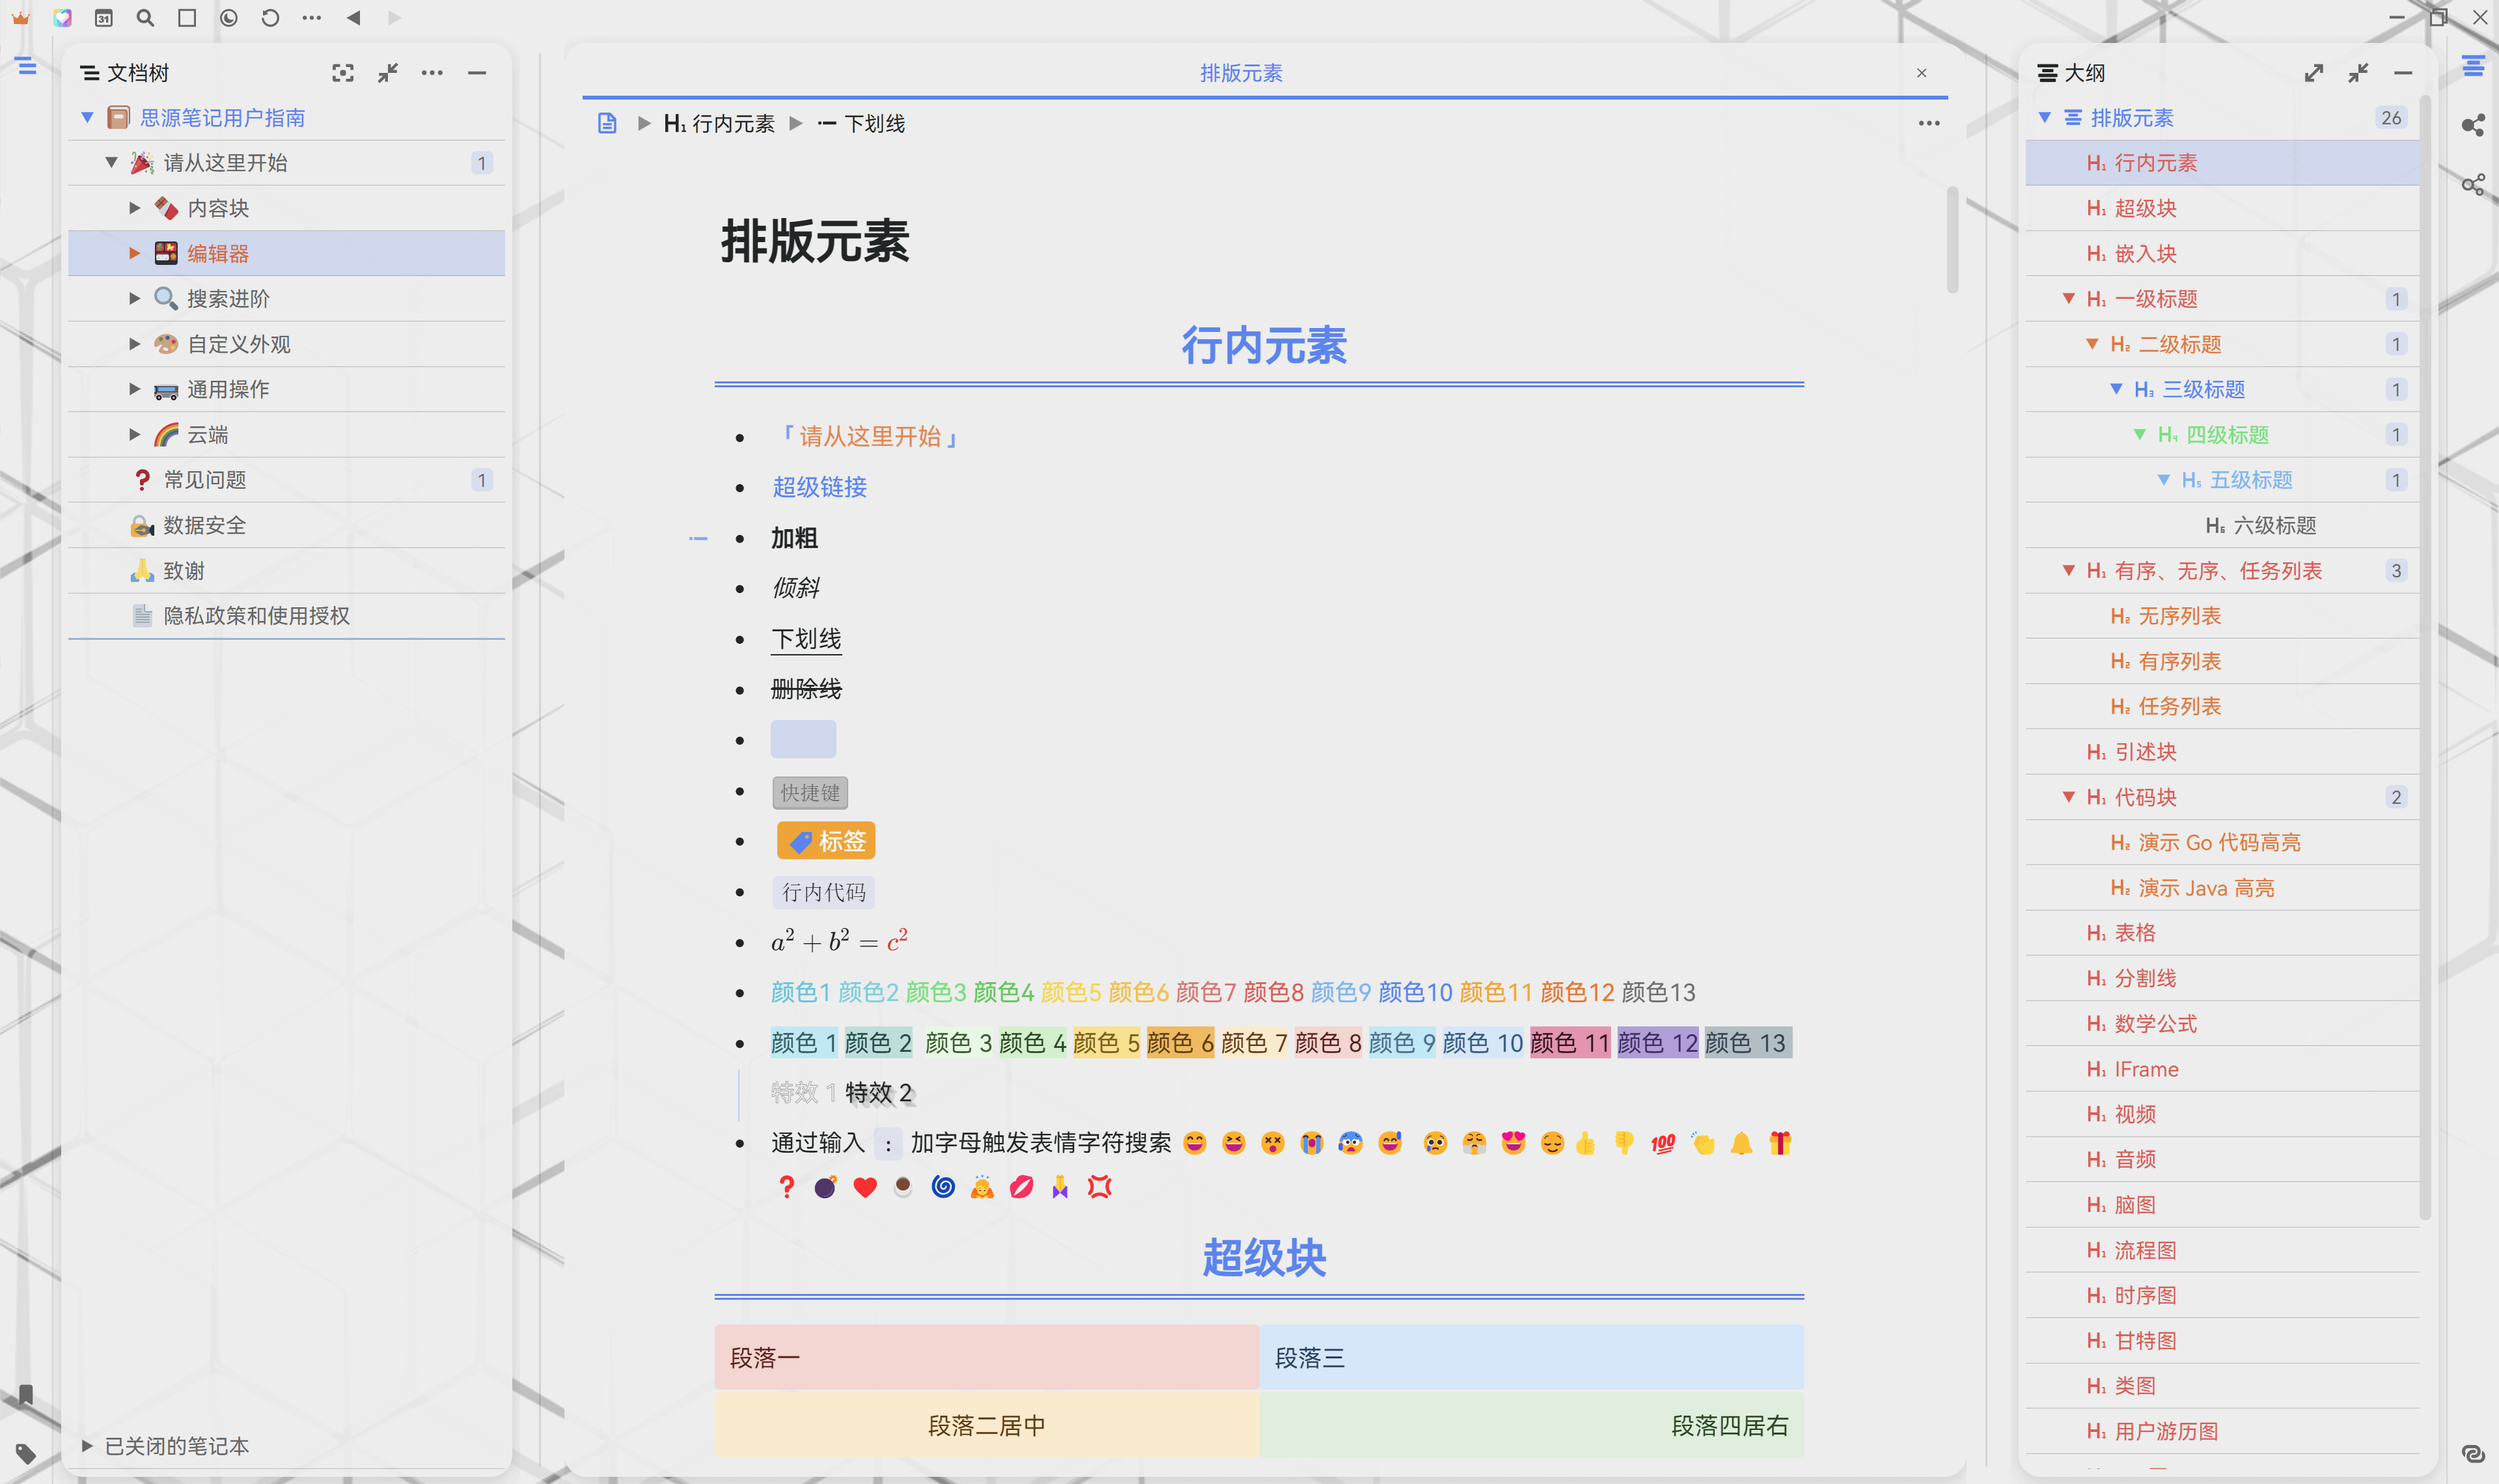
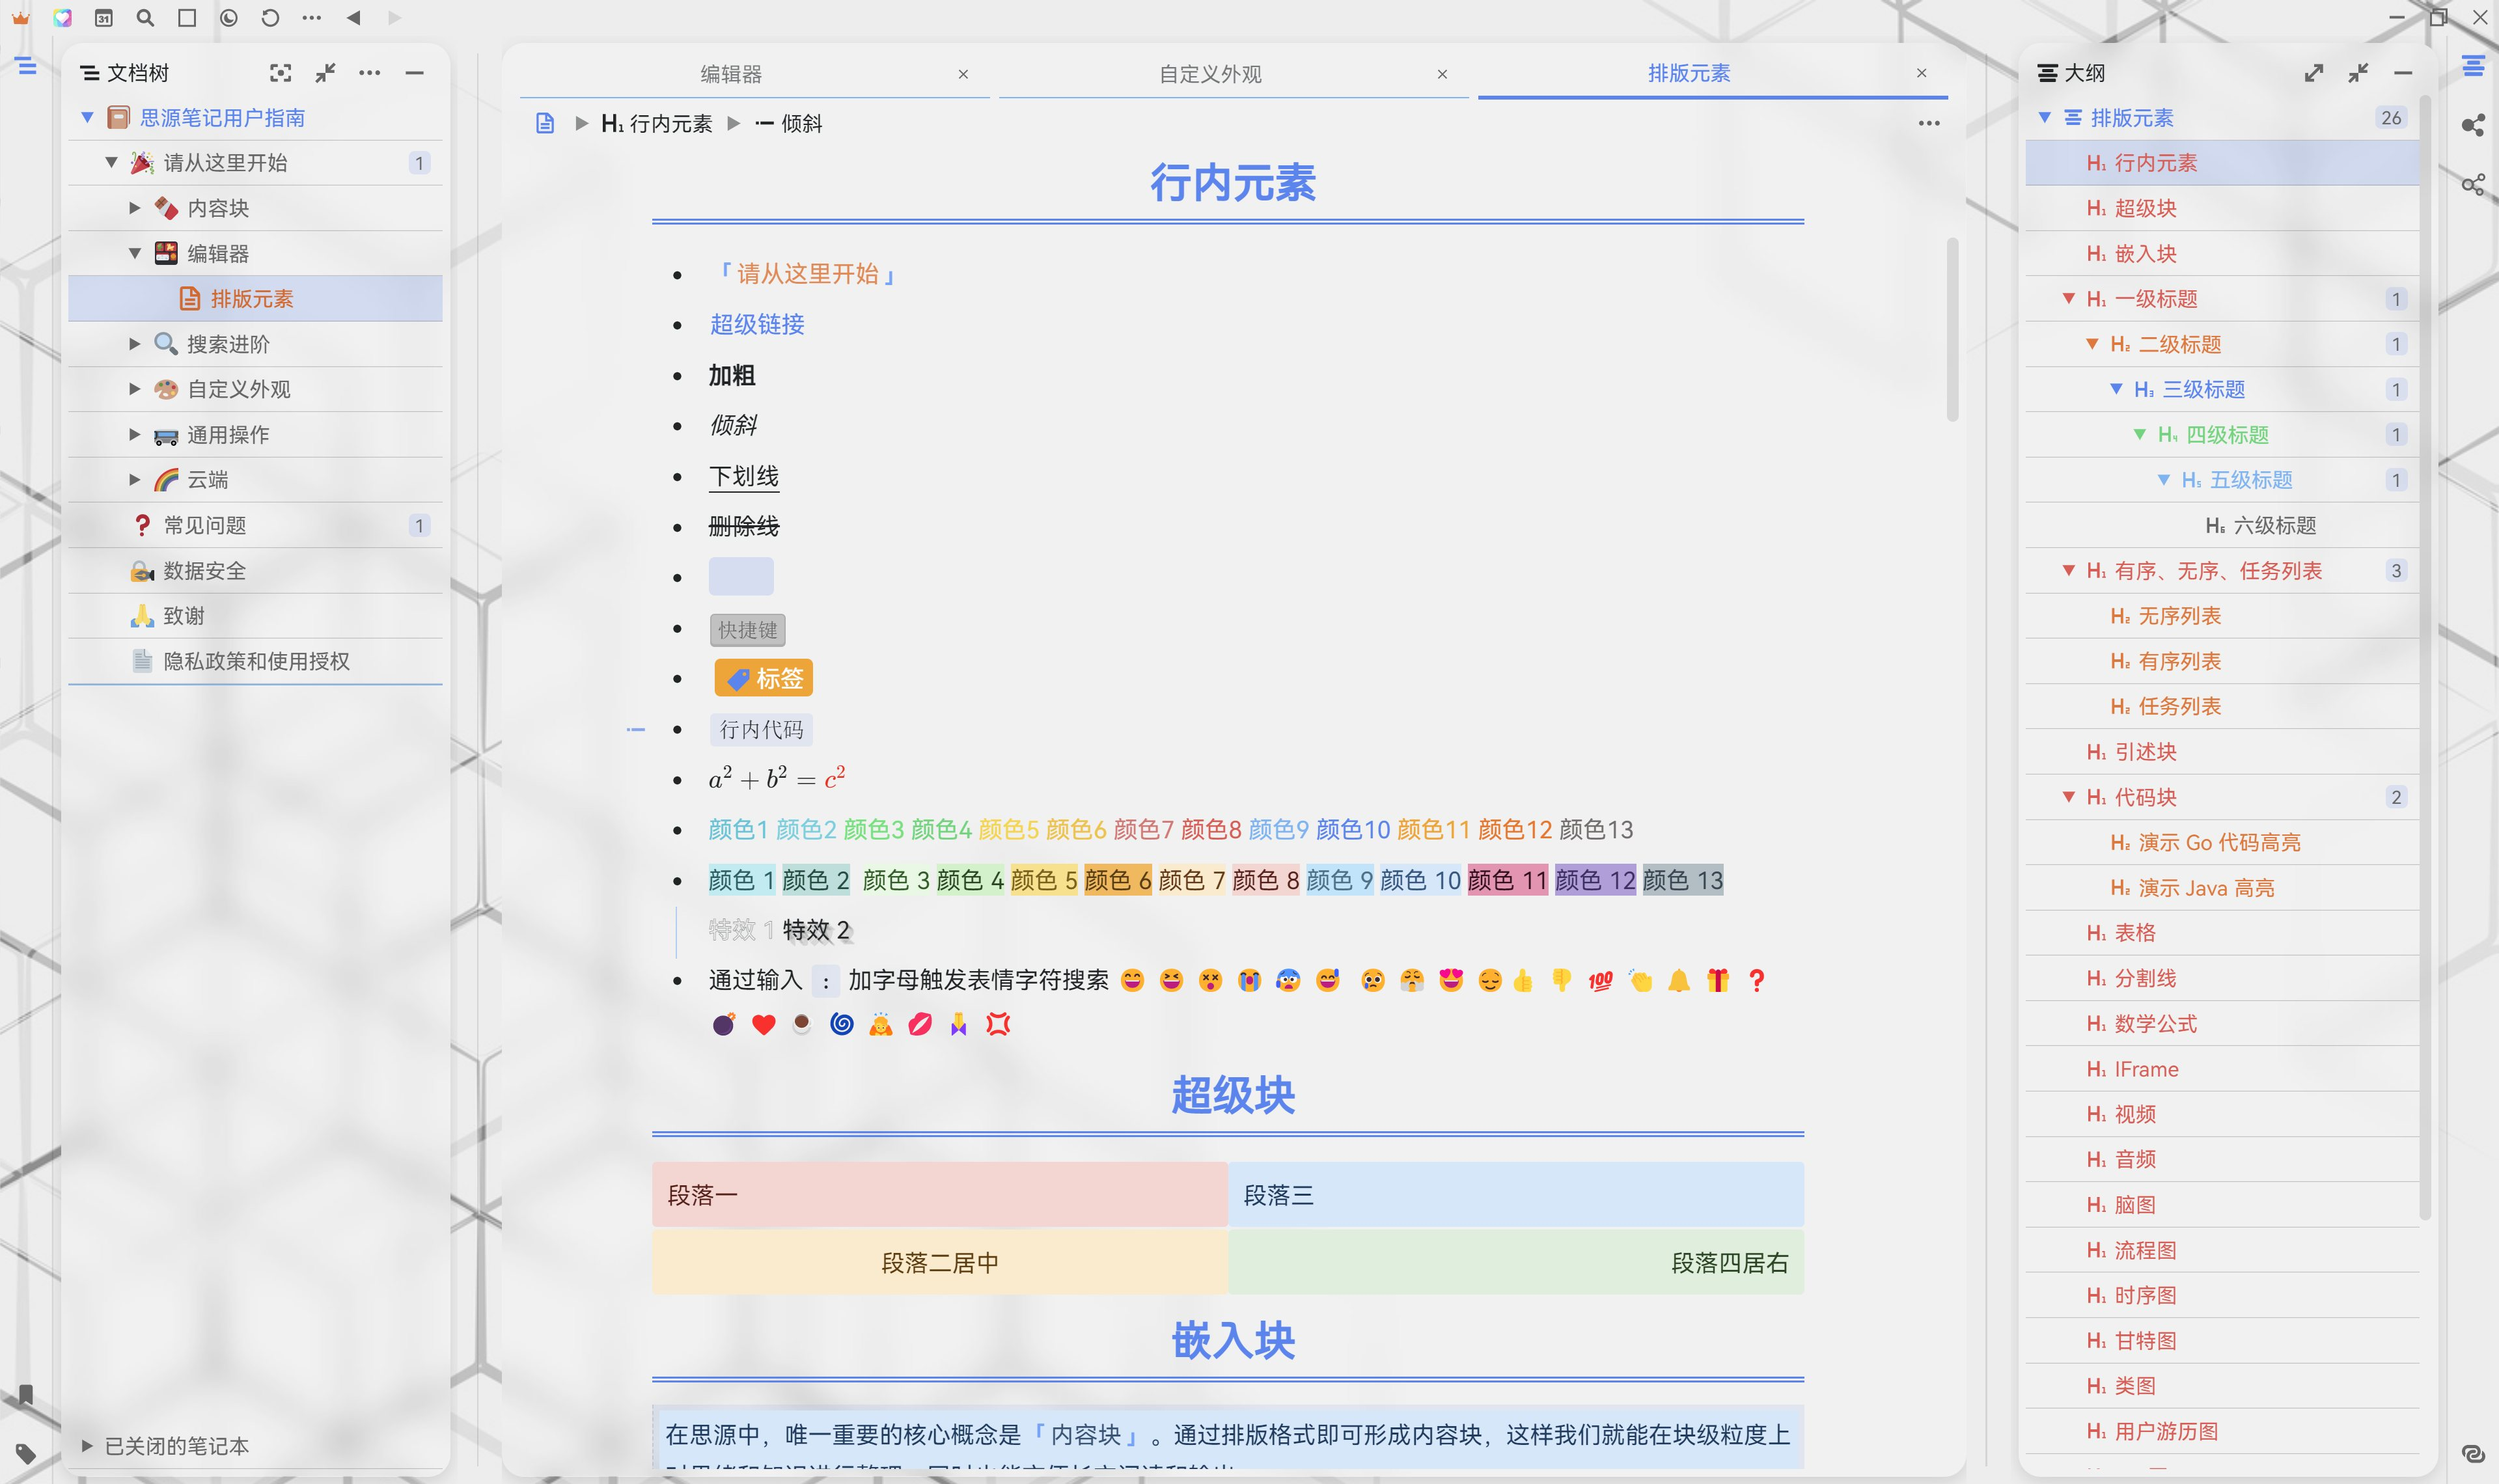
Add files via upload

diff --git a/theme.css b/theme.css
@@ -13,7 +13,7 @@
 	--b3-theme-primary-lighter:rgba(66,133,244,0.2);
 	--b3-theme-primary-lightest:rgba(66,133,244,0.1);
 	--b3-theme-secondary:#f3722c;
-	--b3-theme-background:#FFFFFF;
+	--b3-theme-background:var(--dialog-background);
 	/* 背景色，主要用于编辑器背景 */
     --b3-theme-surface:rgba(0,0,0,0.20);
 	/* 主要用于分栏背景 */
@@ -58,7 +58,7 @@
     --b3-font-color1:#26c6da;
 	--b3-font-color2:#4dd0e1;
 	--b3-font-color3:#28e476;
-	--b3-font-color4:#00c853;
+	--b3-font-color4:#30d675;
 	--b3-font-color5:#ffd32a;
 	--b3-font-color6:#fbc02d;
 	--b3-font-color7:#e57373;
@@ -216,9 +216,9 @@
     --background-image:url("img/bg.jpg");
 	/* 背景图 */
     --blur-value:10px;
-	/* 背景图片模糊程度 因性能原因已暂时取消*/
-    --glass-editor-background:rgb(255,255,255,10%);
-	/* 毛玻璃效果：背景色 因性能原因已暂时取消*/
+	/* 背景图片模糊程度*/
+    --glass-editor-background:rgb(255,255,255,20%);
+	/* 毛玻璃效果*/
     --glass-box-shadow:0 4px 12px rgba(120,120,120,0.25);
 	/* 毛玻璃效果：阴影 */
 
@@ -318,7 +318,7 @@ option {
 	color:var(--b3-font-color10);
 }
 .file-tree ul.b3-list.b3-list--background [data-subtype="h4"] .b3-list-item__text,.file-tree ul.b3-list.b3-list--background [data-subtype="h4"] .b3-list-item__toggle,.file-tree ul.b3-list.b3-list--background [data-subtype="h4"] {
-	color:var(--b3-font-color3);
+	color:var(--b3-font-color4);
 }
 .file-tree ul.b3-list.b3-list--background [data-subtype="h5"] .b3-list-item__text,.file-tree ul.b3-list.b3-list--background [data-subtype="h5"] .b3-list-item__toggle,.file-tree ul.b3-list.b3-list--background [data-subtype="h5"] {
 	color:var(--b3-font-color9);
@@ -349,9 +349,9 @@ body {
 	background-position:center top;
 	background-size:cover;
 }
+/*****************************************正常特效，和毛玻璃只能选一个注释*********************
 .fn__flex-1.fn__flex [data-type='wnd'] {
 	background:var(--background2);
-	/* background: transparent; */
 	min-height:90% !important;
 	margin:5px;
 	padding:5px;
@@ -361,15 +361,48 @@ body {
 	box-sizing:border-box;
 	border-radius:15px;
 }
-/* 毛玻璃特效
-.fn__flex-1.fn__flex [data-type='wnd']:before {
+.b3-menu,.protyle-util {
+	padding:10px 0px;
+	background-color:var(--dialog-background);
+}
+/*****************************************正常特效结束*****************************************/
+
+/*****************************************毛玻璃特效部分*****************************************/
+.fn__flex-1.fn__flex [data-type='wnd'] {
+	background:transparent;
+	min-height:90% !important;
+	margin:5px;
+	padding:5px;
+	position:relative;
+	box-shadow:var(--glass-box-shadow);
+	overflow:hidden;
+	box-sizing:border-box;
+	border-radius:15px;
+}
+.block__popover,.protyle[data-index="0"]  {
+	background:transparent;
+}
+.block__popover:before,.fn__flex-1.fn__flex [data-type='wnd']:before {
 	content: "";
 	position: absolute;
 	top: 0;	left: 0; right: 0;	bottom: 0;
 	z-index: -3;
-	background-color: rgba(255,255,255,0.15);
-	backdrop-filter: blur(20px);
-} */
+	background-color: var(--glass-editor-background);
+	backdrop-filter: blur(var(--blur-value));
+}
+.b3-menu,.protyle-util {
+	padding:10px 0px;
+	background-color: var(--glass-editor-background);
+	backdrop-filter: blur(var(--blur-value));
+}
+/*****************************************毛玻璃特效结束*****************************************/
+.block__popover.block__popover--move.block__popover--open {
+	border-radius:15px;
+	box-shadow:0px 0px 40px 8px rgba(0,0,0,0.2);
+}
+.fullscreen {
+	background-color:var(--dialog-background) !important;
+}
 .layout__center .fn__flex-1.fn__flex [data-type='wnd'] {
 	margin:5px auto;
 	padding:5px 5px;
@@ -418,8 +451,6 @@ body {
 	color:var(--b3-theme-primary);
 }
 /**弹出窗口-正常结束**/
-
-
 .b3-dialog__scrim {
 	background-color:rgb(0 0 0 / 0%);
 }
@@ -434,9 +465,6 @@ body {
 	background-color:#00000000;
 	padding:16px 24px;
 }
-.layout-tab-bar {
-	background-color: transparent;
-}
 /***搜索栏\替换栏***/
 .search__header{
 	background-color:var(--dialog-background);
@@ -448,13 +476,9 @@ body {
 .spread-search__preview {
 	border-top: 1px solid var(--b3-theme-primary);
 }
-/***弹出页面***/
-.block__popover {
-	background-color:rgb(237,237,237);
-}
-.block__popover.block__popover--move.block__popover--open {
-	border-radius:15px;
-	box-shadow:0px 0px 40px 8px rgba(0,0,0,0.2);
+.protyle-background {
+	margin:10px;
+	border-radius:8px;
 }
 .b3-card {
 	box-shadow:var(--b3-point-shadow);
@@ -465,7 +489,6 @@ body {
 .b3-card:hover{
 	background-color: var(--b3-theme-primary-lightest);
 }
-/**修改结束**/
   .protyle-icons>span {
 	background-color:#00000000;
 	color:var(--b3-theme-primary);
@@ -486,15 +509,8 @@ body {
 }
 body.body--win32 {
 	border:0px solid var(--b3-border-color);
-}
-/******** 毛玻璃效果实验功能代码结束 ***************/
- 
+} 
   /**** 菜单 ****/
-
-  .b3-menu,.protyle-util {
-	padding:10px 0px;
-	background-color:var(--dialog-background);
-}
 /* 菜单项 */
   .b3-menu__item {
 	padding:2px 16px 2px 16px;
@@ -776,9 +792,7 @@ strong[style="background-color: var(--b3-font-background13);"] {
 	background-color:var(--b3-theme-primary);
 	color:var(--b3-theme-surface);
 }
-.fullscreen {
-	background-color:var(--dialog-background) !important;
-}
+
 /**** 其他 ****/
   /* 大文件分页加载条 */
   .protyle-scroll {
@@ -803,8 +817,9 @@ strong[style="background-color: var(--b3-font-background13);"] {
 	background-color:transparent;
 }
 /* 隐藏空白行的提示文字 */
-  .protyle-wysiwyg [data-node-id] [spellcheck="false"]:focus:empty:after {
-	content:'';
+.protyle-wysiwyg [data-node-id] [spellcheck="false"]:empty:after {
+	content:' •';
+	opacity: 0.3;
 }
 /************** 三、编辑器行内样式 ***********************/
 
@@ -1085,7 +1100,7 @@ to {
 	min-height:1.75em;
 	padding:2px 0px 0px 10px;
 	margin-bottom:5px;
-	color:var(--b3-font-color3);
+	color:var(--b3-font-color4);
 }
 .protyle-wysiwyg [data-node-id].h4:before{
 	position:absolute;
@@ -1094,7 +1109,7 @@ to {
 	height: 100%;
 	top: 0;
 	left: -1.5px;
-	background-color: var(--b3-font-color3);
+	background-color: var(--b3-font-color4);
 	border-radius: 10px;
 }
 .protyle-wysiwyg [data-node-id].h5,.b3-typography h5 {
@@ -1364,6 +1379,7 @@ to {
 .side-panel {
 	background-color:var(--dialog-background);
 }
-.protyle {
-	background-color:rgba(237,237,237,0.75);
+
+#editor {
+	background:var(--background2);
 }
